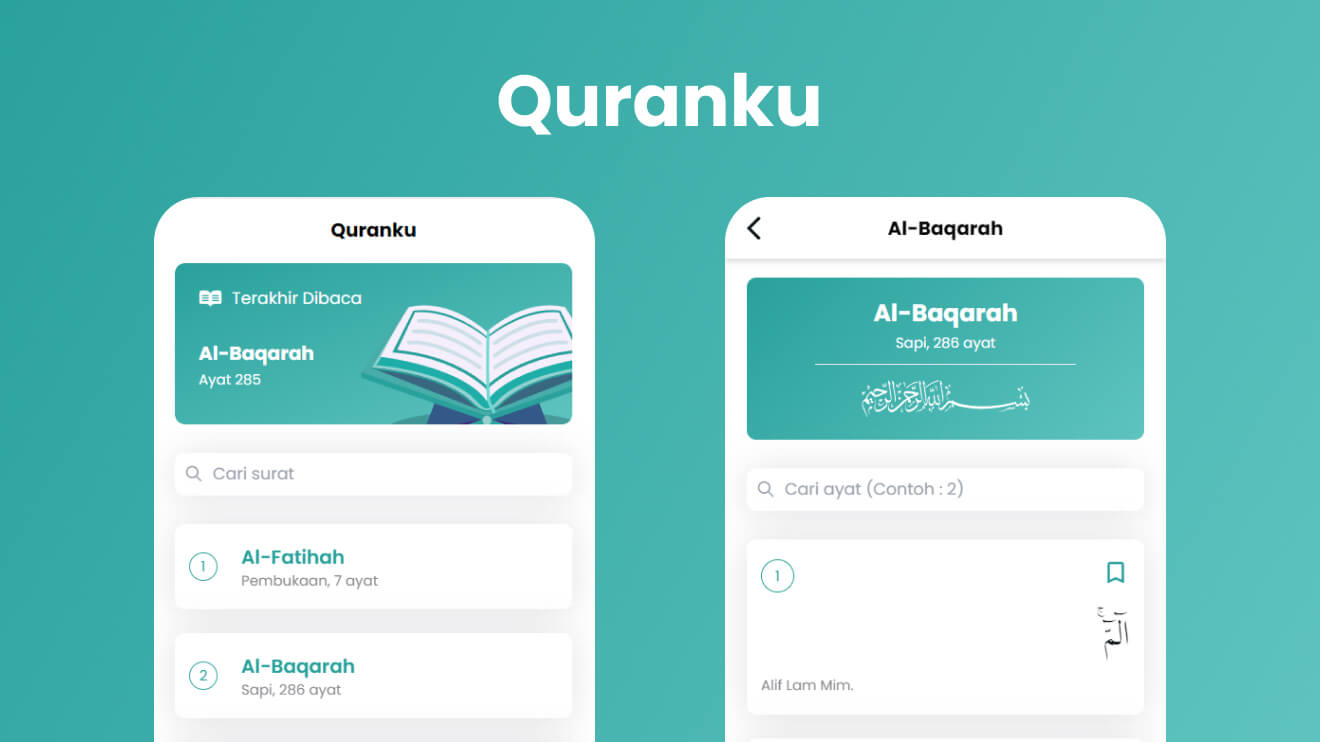
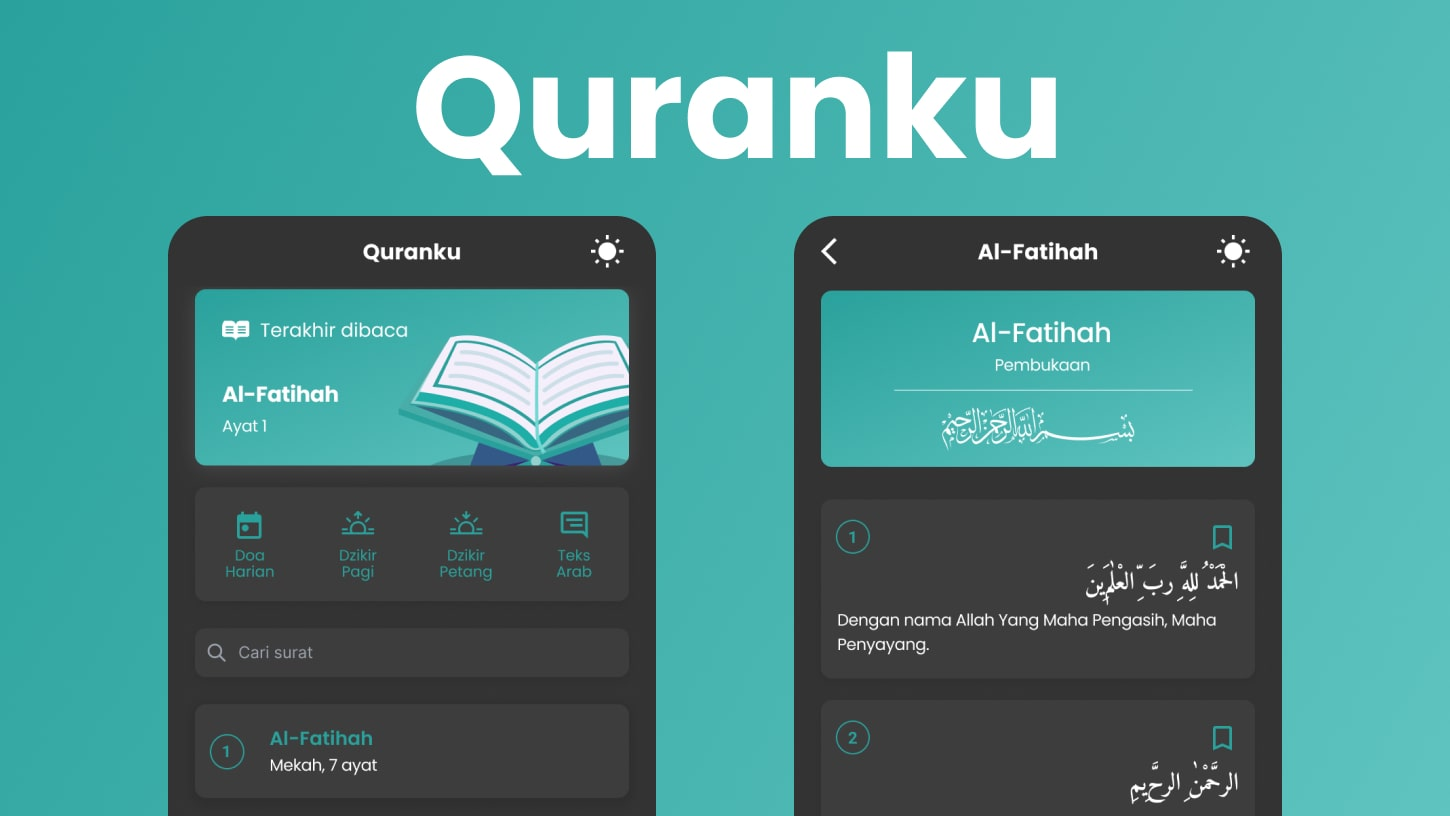
chore: update documentation

diff --git a/src/components/base/ToggleDarkMode.tsx b/src/components/base/ToggleDarkMode.tsx
@@ -1,17 +1,12 @@
 "use client"
 
-import { useTheme } from 'next-themes'
-import { MouseEvent, useEffect, useState } from 'react'
-import Image from 'next/image'
+import { useTheme } from "next-themes"
+import { MouseEvent, useEffect, useState } from "react"
+import Image from "next/image"
 
 export default function ToggleDarkMode() {
   const [mounted, setMounted] = useState(false)
-  const { theme, setTheme } = useTheme()
-
-  const handleToggleTheme = (event: MouseEvent) => {
-    event.preventDefault()
-    theme === 'light' ? setTheme('dark') : setTheme('light')
-  }
+  const { resolvedTheme, setTheme } = useTheme()
 
   useEffect(() => {
     setMounted(true)
@@ -21,17 +16,22 @@ export default function ToggleDarkMode() {
     return null
   }
 
+  const handleToggleTheme = (event: MouseEvent) => {
+    event.preventDefault()
+    setTheme(resolvedTheme === "light" ? "dark" : "light")
+  }
+
   return (
     <button onClick={handleToggleTheme}>
       <Image
         src={
-          theme === 'dark'
-            ? '/images/icon/dark-theme.svg'
-            : '/images/icon/light-theme.svg'
+          resolvedTheme === "dark"
+            ? "/images/icon/dark-theme.svg"
+            : "/images/icon/light-theme.svg"
         }
         width={24}
         height={24}
-        alt="Dark Theme"
+        alt="Toggle Theme"
       />
     </button>
   )

diff --git a/src/data/sharedMetadata.ts b/src/data/sharedMetadata.ts
@@ -19,7 +19,7 @@ export const sharedMetadata: Metadata = {
     siteName: `Quranku`,
     images: [
       {
-        url: `/images/icon/cover-quranku.jpg`,
+        url: `/images/cover-quranku.jpg`,
       },
     ],
   },
@@ -30,7 +30,7 @@ export const sharedMetadata: Metadata = {
     card: "summary_large_image",
     site: `@quranku`,
     creator: "@quranku",
-    images: `/images/icon/cover-quranku.jpg`,
+    images: `/images/cover-quranku.jpg`,
   },
   robots: "index, follow, max-image-preview:large, max-snippet:-1, max-video-preview:-1",
   description: `${description}`,

diff --git a/README.md b/README.md
@@ -3,13 +3,18 @@
 ![image](./public/images/cover-quranku.jpg)
 
 The design of Quranku is from: 
-- Design App: [Figma - Quranku](https://www.figma.com/file/3dFh788Uk8wWYlhh7Kh62F/Quranku?type=design&node-id=5%3A1567&mode=dev)
+- Design App: [Figma - Quranku](https://www.figma.com/file/3dFh788Uk8wWYlhh7Kh62F/Quranku?type=design&node-id=5%3A1567&mode=dev).
 - Assets: [Figma - Quran App Concept](https://www.figma.com/community/file/966921639679380402).
+- Doa, Dzikir, Teks Arab: Haqq - Quran.
 
 
 
 ## Getting Started
-This is a [Next.js](https://nextjs.org/) project bootstrapped with [`create-next-app`](https://github.com/vercel/next.js/tree/canary/packages/create-next-app).
+This is a [Next.js - App Router](https://nextjs.org/) project bootstrapped with [`create-next-app`](https://github.com/vercel/next.js/tree/canary/packages/create-next-app).
+
+```
+Node: v22.13.0
+```
 
 First, install the dependencies:
 ```bash
